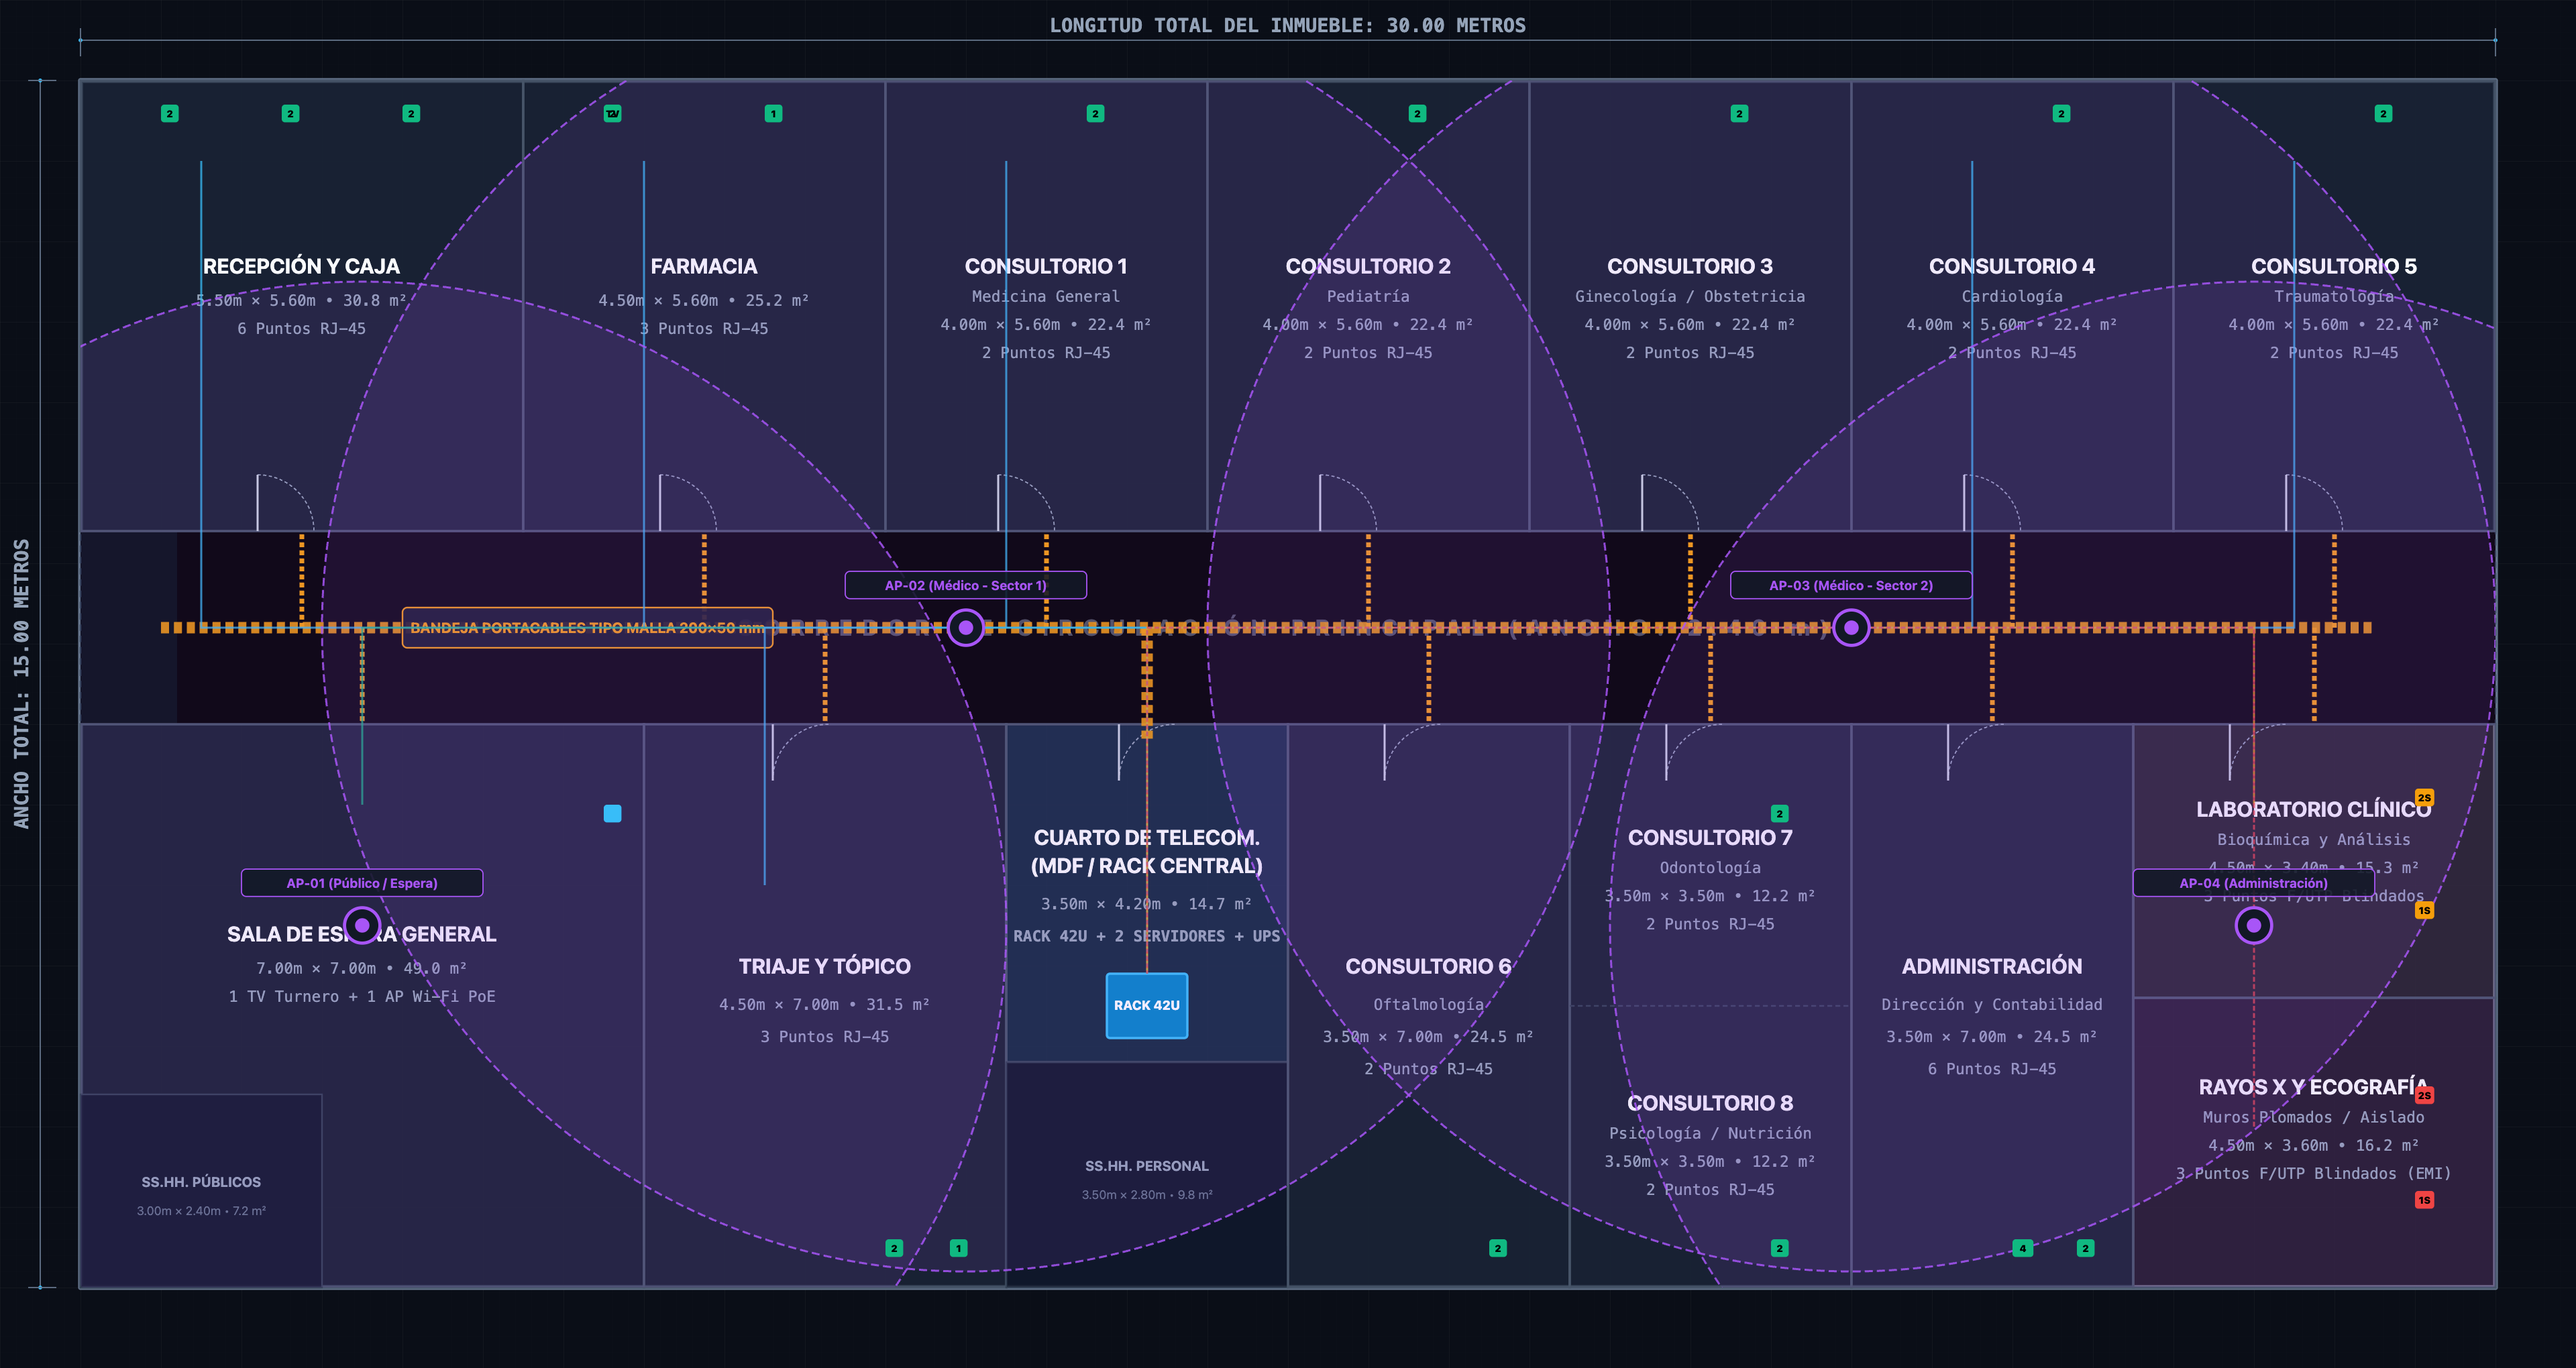
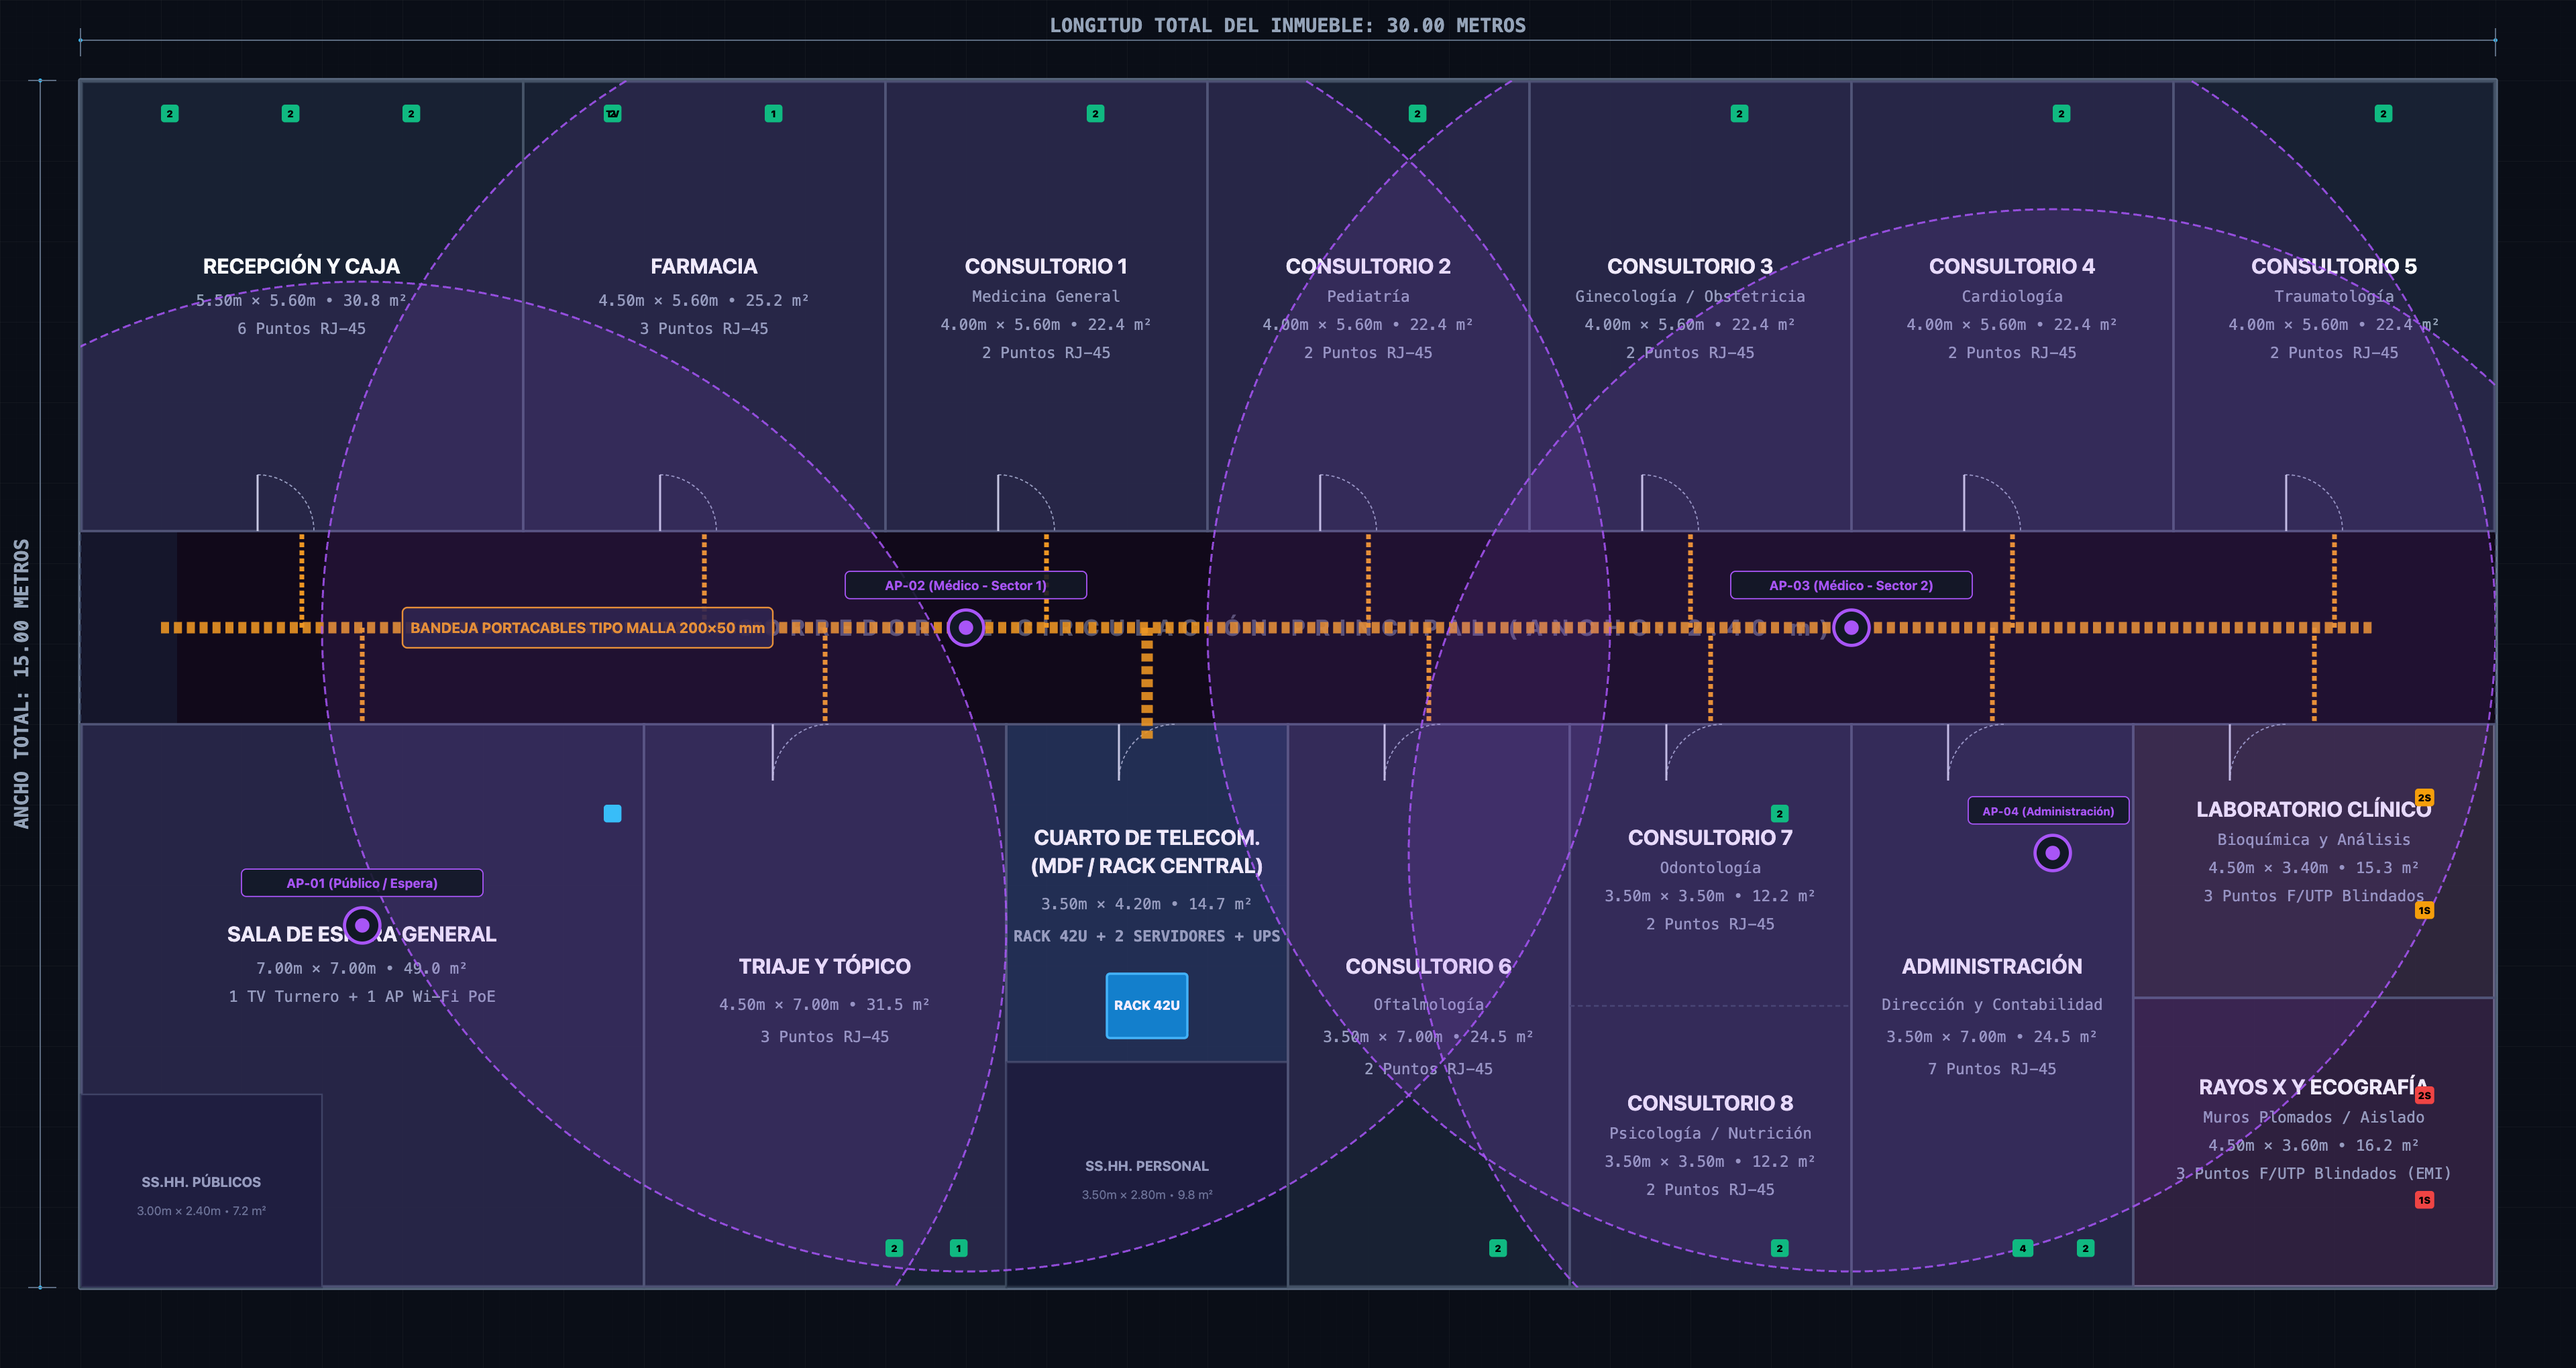
update png

Changed region(s): [[0.75, 0.5559, 0.9375, 0.6794]]

diff --git a/plano/index.html b/plano/index.html
@@ -795,7 +795,7 @@
               <text x="2475" y="1210" class="room-title">ADMINISTRACIÓN</text>
               <text x="2475" y="1255" class="room-meta">Dirección y Contabilidad</text>
               <text x="2475" y="1295" class="room-meta">3.50m × 7.00m • 24.5 m²</text>
-              <text x="2475" y="1335" class="room-meta" fill="#38bdf8">6 Puntos RJ-45</text>
+              <text x="2475" y="1335" class="room-meta" fill="#38bdf8">7 Puntos RJ-45</text>
               <path d="M 2420 900 L 2420 970 A 70 70 0 0 1 2490 900" class="door-arc" />
               <line x1="2420" y1="900" x2="2420" y2="970" class="door-leaf" />
             </g>
@@ -896,7 +896,7 @@
               <!-- AP-03 (Pasillo Este - R: 8.0m) -->
               <circle cx="2300" cy="780" r="800" fill="rgba(168, 85, 247, 0.12)" stroke="#a855f7" stroke-width="2.5" stroke-dasharray="10,5" opacity="0.85" />
               <!-- AP-04 (Administración - R: 8.0m) -->
-              <circle cx="2800" cy="1150" r="800" fill="rgba(168, 85, 247, 0.12)" stroke="#a855f7" stroke-width="2.5" stroke-dasharray="10,5" opacity="0.85" />
+              <circle cx="2550" cy="1060" r="800" fill="rgba(168, 85, 247, 0.12)" stroke="#a855f7" stroke-width="2.5" stroke-dasharray="10,5" opacity="0.85" />
             </g>
 
             <!-- Nodos Físicos de APs (Hardware en Techo con Etiquetas) -->
@@ -926,10 +926,10 @@
 
             <!-- AP-04 -->
             <g class="ap-hardware">
-              <circle cx="2800" cy="1150" r="22" fill="#121826" stroke="#a855f7" stroke-width="4" />
-              <circle cx="2800" cy="1150" r="9" fill="#a855f7" />
-              <rect x="2650" y="1080" width="300" height="34" rx="6" fill="rgba(18, 24, 38, 0.88)" stroke="#a855f7" stroke-width="1.5" />
-              <text x="2800" y="1103" fill="#a855f7" font-size="16" font-weight="700" text-anchor="middle">AP-04 (Administración)</text>
+              <circle cx="2550" cy="1060" r="22" fill="#121826" stroke="#a855f7" stroke-width="4" />
+              <circle cx="2550" cy="1060" r="9" fill="#a855f7" />
+              <rect x="2445" y="990" width="200" height="34" rx="6" fill="rgba(18, 24, 38, 0.88)" stroke="#a855f7" stroke-width="1.5" />
+              <text x="2545" y="1013" fill="#a855f7" font-size="14" font-weight="700" text-anchor="middle">AP-04 (Administración)</text>
             </g>
           </g>
 
@@ -1110,11 +1110,11 @@
       admin: {
         title: "Administración, Jefatura y Contabilidad",
         area: "24.5 m² (3.50m × 7.00m)",
-        jacks: "6 Tomas RJ-45 Cat 6",
-        devices: "4 PCs administrativas, 1 Impresora multifuncional departamental, 1 Teléfono IP",
-        cableType: "UTP Cat 6 LSZH",
+        jacks: "7 Tomas (6 Tomas Cat 6 + 1 AP-04 PoE)",
+        devices: "4 PCs administrativas, 1 Impresora multifuncional departamental, 1 Teléfono IP de dirección, 1 Access Point corporativo (AP-04)",
+        cableType: "UTP Cat 6 LSZH / PoE (802.3at)",
         distanceRack: "13.0 metros reales",
-        notes: "Oficina administrativa central para gestión financiera, auditoría y facturación electrónica."
+        notes: "Oficina administrativa central para gestión financiera, auditoría, jefatura médica, reuniones clínicas y facturación electrónica."
       },
       diagnostico: {
         title: "Zona de Diagnóstico (Laboratorio Clínico y Rayos X)",

diff --git a/analisis/etapa2_topologia_modelos_medios_transmision.md b/analisis/etapa2_topologia_modelos_medios_transmision.md
@@ -239,6 +239,6 @@ flowchart TD
 ```
 
 ### Elementos Clave que se transferirán a la Etapa 3:
-1. **Dimensionamiento del Parcheo:** 49 puntos activos + 7 de reserva = **56 tomas**, lo que define exactamente **dos Patch Panels de 24 puertos Cat 6 (48 puertos) + un Patch Panel blindado de 24 puertos Cat 6A (para las 6 tomas blindadas de Rayos X y Laboratorio)**.
+1. **Dimensionamiento del Parcheo:** 48 puntos activos + 8 de reserva técnica = **56 tomas**, lo que define exactamente **dos Patch Panels de 24 puertos Cat 6 (48 puertos) + un Patch Panel blindado de 24 puertos Cat 6A (para las 6 tomas blindadas de Rayos X y Laboratorio)**.
 2. **Estándar de Conexión:** Adopción justificada de la norma **T568B** por estandarización industrial y coincidencia con la infraestructura preexistente en la mayoría de periféricos comerciales.
 3. **Cálculo de Bobinas de Cable:** Con una distancia promedio de 18.5 metros por punto más bajadas verticales y margen de curvatura del 10%, se requerirán aproximadamente **1,200 metros de cable UTP Cat 6 (4 bobinas de 305m)** y **150 metros de cable F/UTP Cat 6A (1 bobina)**.
